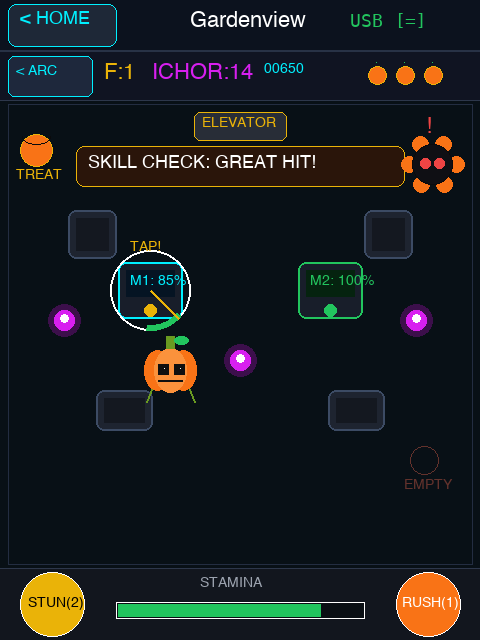
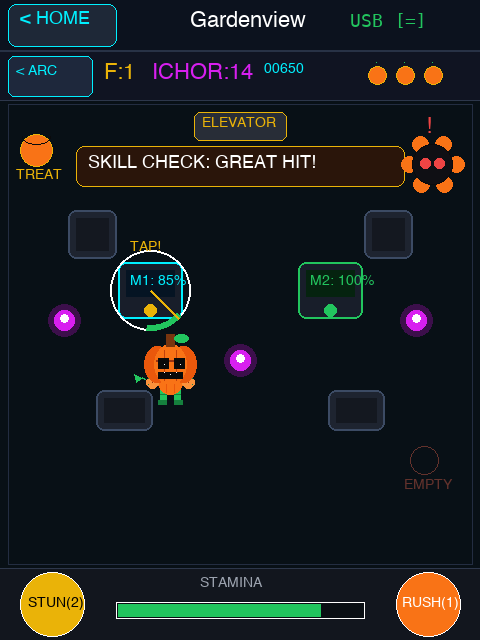
Render canonical Dandy's World Gourdy with pumpkin torso, vine limbs, paw claws, and leaf tail

Changed region(s): [[0.2812, 0.5, 0.4375, 0.6562]]

diff --git a/web/index.html b/web/index.html
@@ -905,49 +905,138 @@
     function drawGourdy(cx, cy, angle, walking, sugarRush, blink) {
       if (blink) return;
 
+      // 1. Sugar Rush Golden & Magenta Aura
       if (sugarRush) {
         ctx.strokeStyle = "#eab308"; ctx.lineWidth = 2;
-        ctx.beginPath(); ctx.arc(cx, cy, 14, 0, Math.PI * 2); ctx.stroke();
+        ctx.beginPath(); ctx.arc(cx, cy + 2, 16, 0, Math.PI * 2); ctx.stroke();
         ctx.strokeStyle = "#d81ff0";
-        ctx.beginPath(); ctx.arc(cx, cy, 16, 0, Math.PI * 2); ctx.stroke();
+        ctx.beginPath(); ctx.arc(cx, cy + 2, 18, 0, Math.PI * 2); ctx.stroke();
       }
 
-      // Vine limbs
-      let leg1 = walking ? Math.sin(walkAnimPhase) * 3 : 0;
-      let leg2 = walking ? -Math.sin(walkAnimPhase) * 3 : 0;
-      ctx.fillStyle = "#22c55e";
-      ctx.fillRect(cx - 5, cy + 9 + leg1, 3, 4);
-      ctx.fillRect(cx + 2, cy + 9 + leg2, 3, 4);
+      // 2. Long Green Vine Tail with Leaf Tip (Swishes behind movement direction)
+      let tailAngle = angle + Math.PI;
+      let tailWag = walking ? Math.sin(walkAnimPhase) * 4 : 0;
+      let tailMidX = cx + Math.cos(tailAngle) * 7;
+      let tailMidY = cy + 6 + Math.sin(tailAngle) * 4 + tailWag;
+      let tailTipX = cx + Math.cos(tailAngle) * 14;
+      let tailTipY = cy + 4 + Math.sin(tailAngle) * 7 + tailWag * 1.5;
 
-      // Lobes
+      ctx.strokeStyle = "#15803d"; ctx.lineWidth = 2;
+      ctx.beginPath();
+      ctx.moveTo(cx, cy + 6);
+      ctx.quadraticCurveTo(tailMidX, tailMidY, tailTipX, tailTipY);
+      ctx.stroke();
+
+      // Tail Leaf
+      ctx.fillStyle = "#22c55e";
+      ctx.beginPath();
+      ctx.ellipse(tailTipX, tailTipY, 3.5, 2, tailAngle, 0, Math.PI * 2);
+      ctx.fill();
+
+      // 3. Green Vine Legs with Vine Stripes & Running Step Animation
+      let leg1 = walking ? Math.sin(walkAnimPhase) * 3.5 : 0;
+      let leg2 = walking ? -Math.sin(walkAnimPhase) * 3.5 : 0;
+
+      // Left Leg
+      ctx.fillStyle = "#22c55e";
+      ctx.fillRect(cx - 5, cy + 10 + leg1, 3, 6);
+      ctx.fillStyle = "#15803d"; // Vine stripe
+      ctx.fillRect(cx - 5, cy + 12 + leg1, 3, 1.5);
+      ctx.fillRect(cx - 6, cy + 15 + leg1, 4, 2); // Claw foot
+
+      // Right Leg
+      ctx.fillStyle = "#22c55e";
+      ctx.fillRect(cx + 2, cy + 10 + leg2, 3, 6);
+      ctx.fillStyle = "#15803d";
+      ctx.fillRect(cx + 2, cy + 12 + leg2, 3, 1.5);
+      ctx.fillRect(cx + 2, cy + 15 + leg2, 4, 2);
+
+      // 4. Round Orange Pumpkin Torso with Ribbing
       ctx.fillStyle = "#f97316";
-      ctx.beginPath(); ctx.arc(cx - 4, cy, 7, 0, Math.PI * 2); ctx.fill();
-      ctx.beginPath(); ctx.arc(cx + 4, cy, 7, 0, Math.PI * 2); ctx.fill();
+      ctx.beginPath(); ctx.arc(cx, cy + 6, 6.5, 0, Math.PI * 2); ctx.fill();
+      ctx.strokeStyle = "#ea580c"; ctx.lineWidth = 1;
+      ctx.beginPath();
+      ctx.moveTo(cx - 2, cy + 1); ctx.lineTo(cx - 2, cy + 11);
+      ctx.moveTo(cx + 2, cy + 1); ctx.lineTo(cx + 2, cy + 11);
+      ctx.stroke();
+
+      // 5. Green Vine Arms & Large Orange Paw Hands with Claws
+      let armSwing1 = walking ? Math.cos(walkAnimPhase) * 2.5 : 0;
+      let armSwing2 = walking ? -Math.cos(walkAnimPhase) * 2.5 : 0;
+
+      // Left Arm & Paw
+      let paw1X = cx - 9 + armSwing1;
+      let paw1Y = cy + 6 - armSwing1;
+      ctx.strokeStyle = "#22c55e"; ctx.lineWidth = 2;
+      ctx.beginPath(); ctx.moveTo(cx - 4, cy + 5); ctx.lineTo(paw1X, paw1Y); ctx.stroke();
+      ctx.fillStyle = "#fb923c"; // Orange paw
+      ctx.beginPath(); ctx.arc(paw1X, paw1Y, 3.2, 0, Math.PI * 2); ctx.fill();
+      ctx.fillStyle = "#15803d"; // Claws
+      ctx.fillRect(paw1X - 2.5, paw1Y - 1.5, 1.5, 1.5);
+      ctx.fillRect(paw1X - 1.5, paw1Y - 2.5, 1.5, 1.5);
+      ctx.fillStyle = "#9a3412"; // Paw pad
+      ctx.fillRect(paw1X - 1, paw1Y - 1, 1.5, 1.5);
+
+      // Right Arm & Paw
+      let paw2X = cx + 9 + armSwing2;
+      let paw2Y = cy + 6 + armSwing2;
+      ctx.strokeStyle = "#22c55e"; ctx.lineWidth = 2;
+      ctx.beginPath(); ctx.moveTo(cx + 4, cy + 5); ctx.lineTo(paw2X, paw2Y); ctx.stroke();
       ctx.fillStyle = "#fb923c";
-      ctx.beginPath(); ctx.arc(cx, cy, 8, 0, Math.PI * 2); ctx.fill();
+      ctx.beginPath(); ctx.arc(paw2X, paw2Y, 3.2, 0, Math.PI * 2); ctx.fill();
+      ctx.fillStyle = "#15803d";
+      ctx.fillRect(paw2X + 1.5, paw2Y - 1.5, 1.5, 1.5);
+      ctx.fillRect(paw2X + 0.5, paw2Y - 2.5, 1.5, 1.5);
+      ctx.fillStyle = "#9a3412";
+      ctx.fillRect(paw2X - 0.5, paw2Y - 1, 1.5, 1.5);
 
-      // Stem & Leaf
-      ctx.fillStyle = "#69a121";
-      ctx.fillRect(cx - 1, cy - 11, 3, 4);
+      // 6. Giant Jack-o'-Lantern Pumpkin Head
+      // 3 Lobes
+      ctx.fillStyle = "#ea580c";
+      ctx.beginPath(); ctx.arc(cx - 4, cy - 2, 7, 0, Math.PI * 2); ctx.fill();
+      ctx.beginPath(); ctx.arc(cx + 4, cy - 2, 7, 0, Math.PI * 2); ctx.fill();
+      ctx.fillStyle = "#f97316";
+      ctx.beginPath(); ctx.arc(cx, cy - 2, 8, 0, Math.PI * 2); ctx.fill();
+
+      // Rib lines
+      ctx.strokeStyle = "#c2410c"; ctx.lineWidth = 1;
+      ctx.beginPath();
+      ctx.moveTo(cx - 3, cy - 8); ctx.lineTo(cx - 3, cy + 4);
+      ctx.moveTo(cx + 3, cy - 8); ctx.lineTo(cx + 3, cy + 4);
+      ctx.stroke();
+
+      // Horizontal Lid Seam across upper forehead
+      ctx.strokeStyle = "#9a3412"; ctx.lineWidth = 1.5;
+      ctx.beginPath();
+      ctx.moveTo(cx - 6, cy - 4); ctx.lineTo(cx + 6, cy - 4);
+      ctx.stroke();
+
+      // Woody brown stem on top of lid
+      ctx.fillStyle = "#78350f";
+      ctx.fillRect(cx - 1.5, cy - 13, 3, 4);
+
+      // Curled green leaf attached to stem
       ctx.fillStyle = "#22c55e";
-      ctx.beginPath(); ctx.ellipse(cx + 4, cy - 10, 4, 2, 0, 0, Math.PI * 2); ctx.fill();
+      ctx.beginPath(); ctx.ellipse(cx + 4, cy - 12, 4, 2, 0.3, 0, Math.PI * 2); ctx.fill();
 
-      // Eyes & tracking pupils
+      // 7. Carved Black Eye Sockets with Tracking White Pupils
       ctx.fillStyle = "#000";
-      ctx.fillRect(cx - 5, cy - 4, 3, 3);
-      ctx.fillRect(cx + 2, cy - 4, 3, 3);
+      ctx.fillRect(cx - 5, cy - 6, 3, 3.5);
+      ctx.fillRect(cx + 2, cy - 6, 3, 3.5);
       let ldx = Math.max(-1, Math.min(1, Math.cos(angle) * 1.5));
       let ldy = Math.max(-1, Math.min(1, Math.sin(angle) * 1.5));
       ctx.fillStyle = "#fff";
-      ctx.fillRect(cx - 4 + ldx, cy - 3 + ldy, 1.5, 1.5);
-      ctx.fillRect(cx + 3 + ldx, cy - 3 + ldy, 1.5, 1.5);
+      ctx.fillRect(cx - 4 + ldx, cy - 5 + ldy, 1.5, 1.5);
+      ctx.fillRect(cx + 3 + ldx, cy - 5 + ldy, 1.5, 1.5);
 
-      // Grin & fangs
+      // 8. Mischievous Fanged Grin
       ctx.fillStyle = "#000";
-      ctx.fillRect(cx - 4, cy + 3, 9, 2);
+      ctx.fillRect(cx - 4, cy, 9, 2.5);
+      // Sharp white fangs
       ctx.fillStyle = "#fff";
-      ctx.fillRect(cx - 2, cy + 3, 1.5, 1.5);
-      ctx.fillRect(cx + 2, cy + 3, 1.5, 1.5);
+      ctx.fillRect(cx - 2.5, cy, 1.5, 1.5);
+      ctx.fillRect(cx + 1.5, cy, 1.5, 1.5);
+      ctx.fillRect(cx - 0.5, cy + 1, 1.5, 1.5);
     }
 
     function drawTwisted(tw) {

diff --git a/src/AppGourdy.h b/src/AppGourdy.h
@@ -294,46 +294,104 @@ private:
 
         const uint16_t bg = 0x0842;
 
-        // 1. Sugar Rush Golden Halo
+        // 1. Sugar Rush Golden / Magenta Aura
         if (sugarRush) {
-            UI_AA::drawCircle(tft, cx, cy, 14, TFT_YELLOW, bg);
-            UI_AA::drawCircle(tft, cx, cy, 15, TFT_MAGENTA, bg);
+            UI_AA::drawCircle(tft, cx, cy + 2, 16, TFT_YELLOW, bg);
+            UI_AA::drawCircle(tft, cx, cy + 2, 17, TFT_MAGENTA, bg);
         }
 
-        // 2. Green Vine Legs
-        int legOff1 = walking ? (int)(sinf(walkAnimPhase) * 3.0f) : 0;
-        int legOff2 = walking ? (int)(-sinf(walkAnimPhase) * 3.0f) : 0;
-        tft.fillRect(cx - 5, cy + 9 + legOff1, 3, 4, 0x24C5);
-        tft.fillRect(cx + 2, cy + 9 + legOff2, 3, 4, 0x24C5);
+        // 2. Long Green Vine Tail with Leaf Tip (Swishes behind movement direction)
+        float tailAngle = angle + 3.14159f;
+        float tailWag = walking ? sinf(walkAnimPhase) * 4.0f : 0.0f;
+        int tailMidX = cx + (int)(cosf(tailAngle) * 7.0f);
+        int tailMidY = cy + 6 + (int)(sinf(tailAngle) * 4.0f + tailWag);
+        int tailTipX = cx + (int)(cosf(tailAngle) * 14.0f);
+        int tailTipY = cy + 4 + (int)(sinf(tailAngle) * 7.0f + tailWag * 1.5f);
 
-        // 3. Composite Anti-Aliased Pumpkin Head
-        UI_AA::fillCircle(tft, cx - 4, cy, 7, 0xFA40, bg);
-        UI_AA::fillCircle(tft, cx + 4, cy, 7, 0xFA40, bg);
-        UI_AA::fillCircle(tft, cx, cy, 8, 0xFD20, bg);
+        tft.drawLine(cx, cy + 6, tailMidX, tailMidY, 0x1462); // Darker green base
+        tft.drawLine(tailMidX, tailMidY, tailTipX, tailTipY, 0x24C5); // Bright green vine
+        tft.fillTriangle(tailTipX, tailTipY - 2, tailTipX + 3, tailTipY, tailTipX, tailTipY + 2, 0x47E0); // Leaf tip
 
-        // Crease lines & forehead seam
-        tft.drawFastVLine(cx - 3, cy - 6, 12, 0xD280);
-        tft.drawFastVLine(cx + 3, cy - 6, 12, 0xD280);
-        tft.drawFastHLine(cx - 6, cy - 2, 13, 0xB200);
+        // 3. Green Vine Legs with Vine Stripes & Running Animation
+        int legOff1 = walking ? (int)(sinf(walkAnimPhase) * 3.5f) : 0;
+        int legOff2 = walking ? (int)(-sinf(walkAnimPhase) * 3.5f) : 0;
 
-        // Stem & Leaf
-        tft.fillRect(cx - 1, cy - 11, 3, 4, 0x69A1);
-        tft.fillRect(cx + 2, cy - 11, 4, 2, 0x24C5);
+        // Left Leg
+        tft.fillRect(cx - 5, cy + 10 + legOff1, 3, 6, 0x24C5);
+        tft.drawFastHLine(cx - 5, cy + 12 + legOff1, 3, 0x1462); // Vine stripe
+        tft.fillRect(cx - 6, cy + 15 + legOff1, 4, 2, 0x1462); // Vine claw foot
 
-        // Carved Eyes & Tracking Pupils
-        tft.fillRect(cx - 5, cy - 4, 3, 3, TFT_BLACK);
-        tft.fillRect(cx + 2, cy - 4, 3, 3, TFT_BLACK);
+        // Right Leg
+        tft.fillRect(cx + 2, cy + 10 + legOff2, 3, 6, 0x24C5);
+        tft.drawFastHLine(cx + 2, cy + 12 + legOff2, 3, 0x1462);
+        tft.fillRect(cx + 2, cy + 15 + legOff2, 4, 2, 0x1462);
+
+        // 4. Round Orange Pumpkin Torso with Ribbing
+        UI_AA::fillCircle(tft, cx, cy + 6, 6, 0xFA40, bg);
+        tft.drawFastVLine(cx - 2, cy + 2, 8, 0xD280);
+        tft.drawFastVLine(cx + 2, cy + 2, 8, 0xD280);
+
+        // 5. Green Vine Arms & Large Orange Paw Hands with Claws
+        int armSwing1 = walking ? (int)(cosf(walkAnimPhase) * 2.5f) : 0;
+        int armSwing2 = walking ? (int)(-cosf(walkAnimPhase) * 2.5f) : 0;
+
+        // Left Arm & Paw
+        int paw1X = cx - 9 + armSwing1;
+        int paw1Y = cy + 6 - armSwing1;
+        tft.drawLine(cx - 4, cy + 5, paw1X, paw1Y, 0x24C5);
+        UI_AA::fillCircle(tft, paw1X, paw1Y, 3, 0xFD20, bg);
+        tft.drawPixel(paw1X - 2, paw1Y - 1, 0x1462); // Claws
+        tft.drawPixel(paw1X - 1, paw1Y - 2, 0x1462);
+        tft.drawPixel(paw1X, paw1Y, 0x9300); // Paw pad center
+
+        // Right Arm & Paw
+        int paw2X = cx + 9 + armSwing2;
+        int paw2Y = cy + 6 + armSwing2;
+        tft.drawLine(cx + 4, cy + 5, paw2X, paw2Y, 0x24C5);
+        UI_AA::fillCircle(tft, paw2X, paw2Y, 3, 0xFD20, bg);
+        tft.drawPixel(paw2X + 2, paw2Y - 1, 0x1462);
+        tft.drawPixel(paw2X + 1, paw2Y - 2, 0x1462);
+        tft.drawPixel(paw2X, paw2Y, 0x9300);
+
+        // 6. Giant Jack-o'-Lantern Pumpkin Head (Composite Lobes)
+        UI_AA::fillCircle(tft, cx - 4, cy - 2, 7, 0xFA40, bg);
+        UI_AA::fillCircle(tft, cx + 4, cy - 2, 7, 0xFA40, bg);
+        UI_AA::fillCircle(tft, cx, cy - 2, 8, 0xFD20, bg);
+
+        // Vertical rib grooves
+        tft.drawFastVLine(cx - 3, cy - 8, 12, 0xD280);
+        tft.drawFastVLine(cx + 3, cy - 8, 12, 0xD280);
+
+        // Distinct carved horizontal lid seam across upper forehead
+        tft.drawFastHLine(cx - 6, cy - 4, 13, 0x9260);
+        tft.drawPixel(cx - 2, cy - 5, 0x9260);
+        tft.drawPixel(cx + 2, cy - 5, 0x9260);
+
+        // Woody brown stem on top of lid
+        tft.fillRect(cx - 1, cy - 13, 3, 4, 0x69A1);
+        tft.drawPixel(cx - 1, cy - 14, 0x82C2);
+
+        // Curled green leaf attached to stem
+        tft.fillRect(cx + 2, cy - 13, 4, 2, 0x24C5);
+        tft.drawPixel(cx + 4, cy - 14, 0x47E0);
+        tft.drawPixel(cx + 6, cy - 12, 0x24C5);
+
+        // 7. Carved Hollow Black Eye Sockets with Tracking White Pupils
+        tft.fillRect(cx - 5, cy - 6, 3, 3, TFT_BLACK);
+        tft.fillRect(cx + 2, cy - 6, 3, 3, TFT_BLACK);
         int lookDx = (int)constrain(cosf(angle) * 1.5f, -1.0f, 1.0f);
         int lookDy = (int)constrain(sinf(angle) * 1.5f, -1.0f, 1.0f);
-        tft.drawPixel(cx - 4 + lookDx, cy - 3 + lookDy, TFT_WHITE);
-        tft.drawPixel(cx + 3 + lookDx, cy - 3 + lookDy, TFT_WHITE);
+        tft.drawPixel(cx - 4 + lookDx, cy - 5 + lookDy, TFT_WHITE);
+        tft.drawPixel(cx + 3 + lookDx, cy - 5 + lookDy, TFT_WHITE);
 
-        // Fanged Grin
-        tft.drawFastHLine(cx - 4, cy + 3, 9, TFT_BLACK);
-        tft.drawPixel(cx - 3, cy + 4, TFT_BLACK);
-        tft.drawPixel(cx + 3, cy + 4, TFT_BLACK);
-        tft.drawPixel(cx - 2, cy + 3, TFT_WHITE);
-        tft.drawPixel(cx + 2, cy + 3, TFT_WHITE);
+        // 8. Mischievous Fanged Grin
+        tft.drawFastHLine(cx - 4, cy, 9, TFT_BLACK);
+        tft.drawPixel(cx - 3, cy + 1, TFT_BLACK);
+        tft.drawPixel(cx + 3, cy + 1, TFT_BLACK);
+        // Pointed white fangs
+        tft.drawPixel(cx - 2, cy, TFT_WHITE);
+        tft.drawPixel(cx + 2, cy, TFT_WHITE);
+        tft.drawPixel(cx, cy + 1, TFT_WHITE);
     }
 
     void drawTwisted(TFT_eSPI& tft, const TwistedEnemy& tw) {
@@ -1072,7 +1130,7 @@ public:
         // DIFFERENTIAL 60FPS RENDERING
         // =====================================================================
         // Erase previous Gourdy
-        tft.fillRect((int)prevGx - 12, (int)prevGy - 14, 25, 28, 0x0842);
+        tft.fillRect((int)prevGx - 16, (int)prevGy - 16, 32, 36, 0x0842);
 
         // Erase previous Twisteds
         for (int i = 0; i < activeTwisteds; i++) {

diff --git a/scripts/generate_screenshots.py b/scripts/generate_screenshots.py
@@ -422,24 +422,70 @@ def render_gourdy():
     draw.ellipse([tx - S(6), ty - S(3), tx - S(1), ty + S(2)], fill=C_RED)
     draw.ellipse([tx + S(1), ty - S(3), tx + S(6), ty + S(2)], fill=C_RED)
     
-    # Gourdy Holloway (Player)
+    # Gourdy Holloway (Player - Canonical Dandy's World Design)
     gx, gy = S(85), S(185)
-    # Vine limbs
-    draw.line([(gx - S(8), gy + S(6)), (gx - S(12), gy + S(16))], fill=(105, 154, 33), width=SCALE)
-    draw.line([(gx + S(8), gy + S(6)), (gx + S(12), gy + S(16))], fill=(105, 154, 33), width=SCALE)
-    # Multi-lobed Pumpkin Body
-    draw.ellipse([gx - S(13), gy - S(10), gx, gy + S(10)], fill=(249, 115, 22))
-    draw.ellipse([gx, gy - S(10), gx + S(13), gy + S(10)], fill=(249, 115, 22))
-    draw.ellipse([gx - S(8), gy - S(11), gx + S(8), gy + S(11)], fill=(251, 146, 60))
-    # Stem & Leaf
-    draw.rectangle([gx - S(2), gy - S(17), gx + S(2), gy - S(11)], fill=(105, 154, 33))
-    draw.ellipse([gx + S(2), gy - S(17), gx + S(9), gy - S(13)], fill=(34, 197, 94))
-    # Eyes & Smile
-    draw.rectangle([gx - S(6), gy - S(3), gx - S(1), gy + S(2)], fill=(15, 15, 15))
-    draw.rectangle([gx + S(2), gy - S(3), gx + S(7), gy + S(2)], fill=(15, 15, 15))
-    draw.point((gx - S(3), gy - S(1)), fill=C_WHITE)
-    draw.point((gx + S(5), gy - S(1)), fill=C_WHITE)
-    draw.line([(gx - S(6), gy + S(5)), (gx + S(6), gy + S(5))], fill=(15, 15, 15), width=SCALE)
+    
+    # 1. Swishing Green Vine Tail with Leaf Tip
+    draw.line([(gx, gy + S(6)), (gx - S(7), gy + S(8))], fill=(21, 128, 61), width=SCALE)
+    draw.line([(gx - S(7), gy + S(8)), (gx - S(14), gy + S(4))], fill=(34, 197, 94), width=SCALE)
+    draw.polygon([(gx - S(14), gy + S(4)), (gx - S(18), gy + S(2)), (gx - S(17), gy + S(6))], fill=(34, 197, 94))
+    
+    # 2. Green Vine Legs with Vine Stripes
+    # Left leg
+    draw.rectangle([gx - S(5), gy + S(10), gx - S(2), gy + S(16)], fill=(34, 197, 94))
+    draw.line([(gx - S(5), gy + S(12)), (gx - S(2), gy + S(12))], fill=(21, 128, 61), width=1)
+    draw.rectangle([gx - S(6), gy + S(15), gx - S(2), gy + S(17)], fill=(21, 128, 61))
+    # Right leg
+    draw.rectangle([gx + S(2), gy + S(10), gx + S(5), gy + S(16)], fill=(34, 197, 94))
+    draw.line([(gx + S(2), gy + S(12)), (gx + S(5), gy + S(12))], fill=(21, 128, 61), width=1)
+    draw.rectangle([gx + S(2), gy + S(15), gx + S(6), gy + S(17)], fill=(21, 128, 61))
+    
+    # 3. Round Orange Pumpkin Torso with Ribbing
+    draw.ellipse([gx - S(6), gy, gx + S(6), gy + S(12)], fill=(249, 115, 22))
+    draw.line([(gx - S(2), gy + S(1)), (gx - S(2), gy + S(11))], fill=(234, 88, 12), width=1)
+    draw.line([(gx + S(2), gy + S(1)), (gx + S(2), gy + S(11))], fill=(234, 88, 12), width=1)
+    
+    # 4. Green Vine Arms & Large Orange Paw Hands with Claws
+    # Left Arm & Paw
+    draw.line([(gx - S(4), gy + S(5)), (gx - S(9), gy + S(6))], fill=(34, 197, 94), width=SCALE)
+    draw.ellipse([gx - S(12), gy + S(3), gx - S(6), gy + S(9)], fill=(251, 146, 60))
+    draw.point((gx - S(11), gy + S(4)), fill=(21, 128, 61))
+    draw.point((gx - S(11), gy + S(7)), fill=(21, 128, 61))
+    draw.point((gx - S(9), gy + S(6)), fill=(154, 52, 18))
+    # Right Arm & Paw
+    draw.line([(gx + S(4), gy + S(5)), (gx + S(9), gy + S(6))], fill=(34, 197, 94), width=SCALE)
+    draw.ellipse([gx + S(6), gy + S(3), gx + S(12), gy + S(9)], fill=(251, 146, 60))
+    draw.point((gx + S(11), gy + S(4)), fill=(21, 128, 61))
+    draw.point((gx + S(11), gy + S(7)), fill=(21, 128, 61))
+    draw.point((gx + S(9), gy + S(6)), fill=(154, 52, 18))
+    
+    # 5. Giant Pumpkin Head (3 Lobes)
+    draw.ellipse([gx - S(13), gy - S(12), gx, gy + S(6)], fill=(234, 88, 12))
+    draw.ellipse([gx, gy - S(12), gx + S(13), gy + S(6)], fill=(234, 88, 12))
+    draw.ellipse([gx - S(8), gy - S(13), gx + S(8), gy + S(7)], fill=(249, 115, 22))
+    
+    # Vertical rib lines
+    draw.line([(gx - S(3), gy - S(10)), (gx - S(3), gy + S(5))], fill=(194, 65, 12), width=1)
+    draw.line([(gx + S(3), gy - S(10)), (gx + S(3), gy + S(5))], fill=(194, 65, 12), width=1)
+    
+    # Distinct carved horizontal lid seam across upper forehead
+    draw.line([(gx - S(7), gy - S(5)), (gx + S(7), gy - S(5))], fill=(154, 52, 18), width=SCALE)
+    
+    # Woody brown stem & curled green leaf
+    draw.rectangle([gx - S(2), gy - S(18), gx + S(2), gy - S(12)], fill=(120, 53, 15))
+    draw.ellipse([gx + S(2), gy - S(18), gx + S(9), gy - S(14)], fill=(34, 197, 94))
+    
+    # Carved Black Eye Sockets with Tracking White Pupils
+    draw.rectangle([gx - S(6), gy - S(6), gx - S(1), gy - S(1)], fill=(10, 10, 10))
+    draw.rectangle([gx + S(2), gy - S(6), gx + S(7), gy - S(1)], fill=(10, 10, 10))
+    draw.point((gx - S(3), gy - S(3)), fill=C_WHITE)
+    draw.point((gx + S(5), gy - S(3)), fill=C_WHITE)
+    
+    # Mischievous Fanged Grin
+    draw.rectangle([gx - S(6), gy + S(1), gx + S(6), gy + S(4)], fill=(10, 10, 10))
+    draw.point((gx - S(3), gy + S(1)), fill=C_WHITE)
+    draw.point((gx + S(3), gy + S(1)), fill=C_WHITE)
+    draw.point((gx, gy + S(2)), fill=C_WHITE)
     
     # Bottom Controls Toolbar (y: 284..320)
     draw.rectangle([0, S(284), W, H], fill=C_TOOLBAR)
